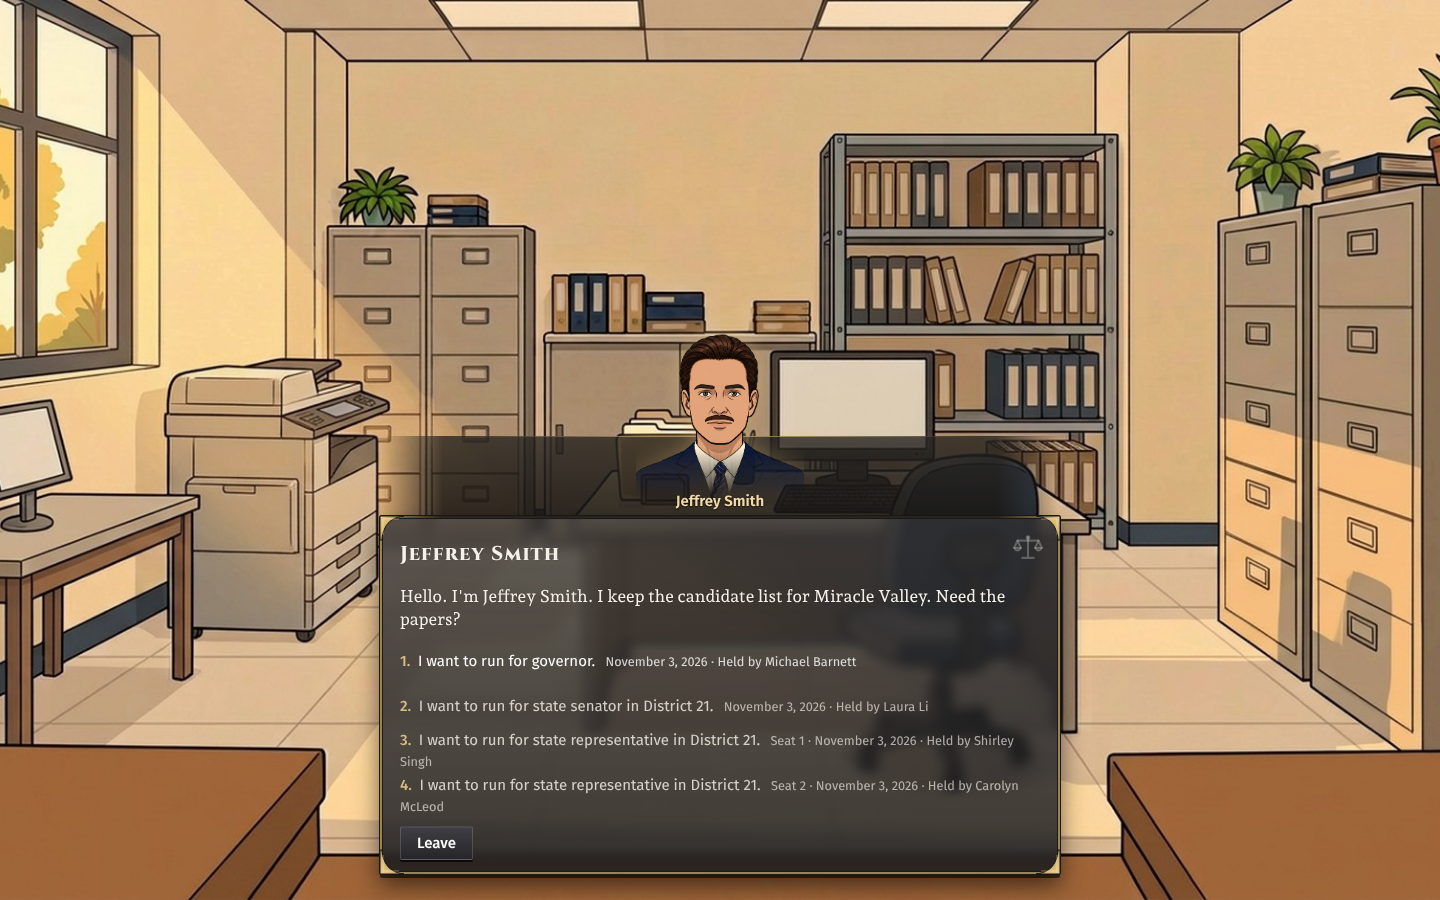
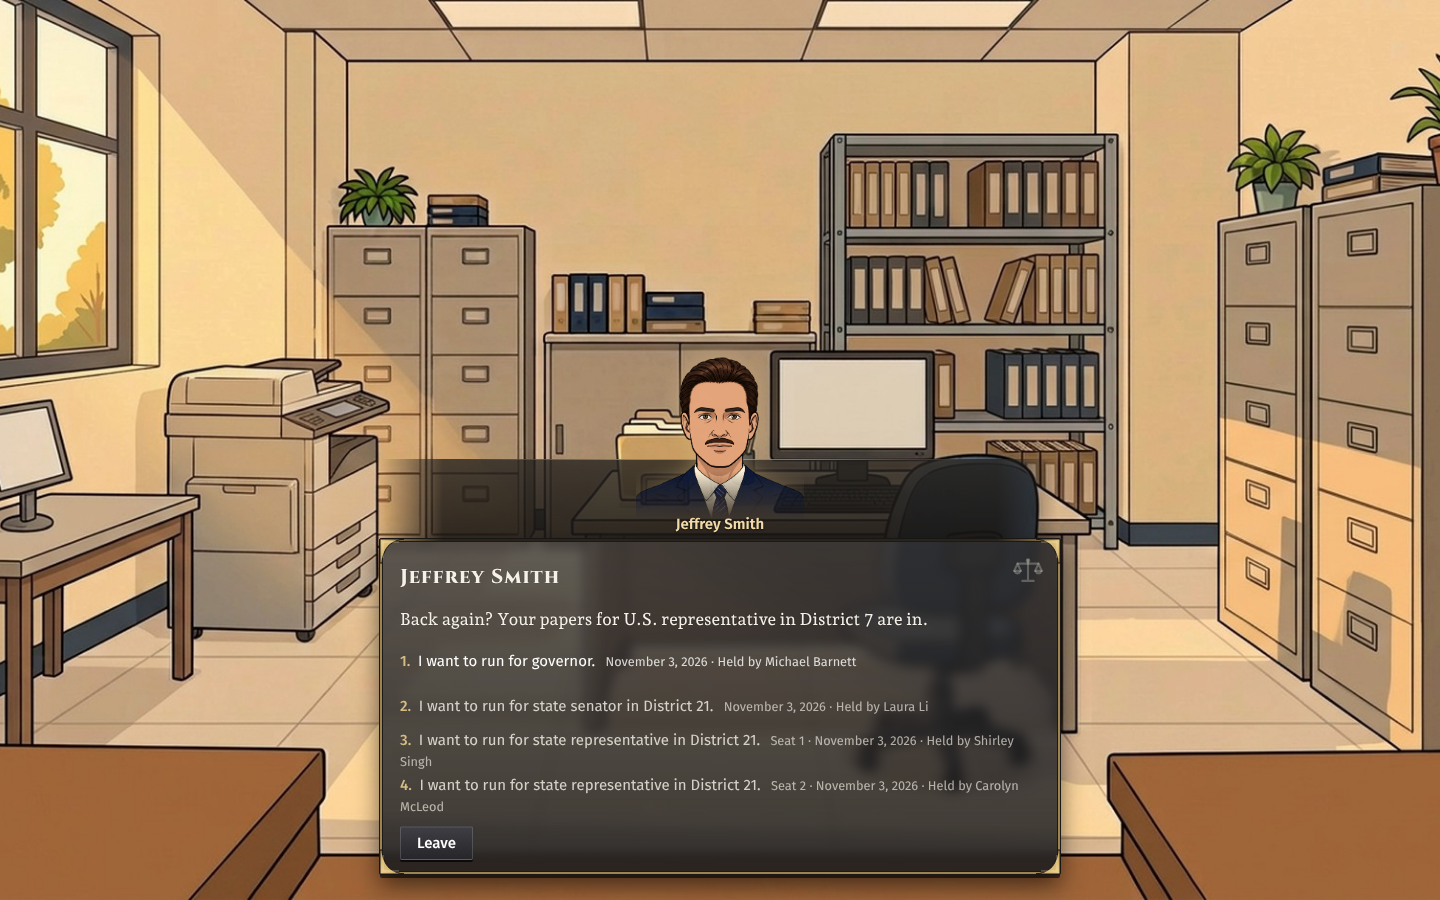
Words W3: the return visit's pictures after Fable A's read (Miracle Valley, West Wareham)
Claude-Session: https://claude.ai/code/session_011uWUjW4TnxQRbdXF6k4rch

Changed region(s): [[0.25, 0.3733, 0.7188, 0.7156], [0.6875, 0.56, 0.75, 0.6533]]

diff --git a/docs/seen/words-w3-return/lines.md b/docs/seen/words-w3-return/lines.md
@@ -108,3 +108,28 @@ Leave
 ```
 
 The after picture for w3-return-4 was taken before a later fix. It greets with "the State Election Commission and Coordinator of Elections". The research note reads "State Election Commission (original) and Coordinator of Elections (duplicate)", and the aside rule now stops before "and" or "or", so the greeting is "This is the State Election Commission" again (`spokenOffice`, tested in `filing-visit.test.ts`).
+
+## After Fable A's read (Nov 13, 08:51Z), at e351391a
+
+These replace the after pictures for w3-return-1 and w3-return-2.
+
+**w3-return-1, Miracle Valley, Arizona**
+
+```
+First thing on March 2nd. You're back at the Secretary of State's counter, and Jeffrey Smith waves you over.
+Jeffrey Smith: Back again? Your papers for U.S. representative in District 7 are in.
+I want to run for governor. November 3, 2026 · Held by Michael Barnett
+I want to run for state senator in District 21. November 3, 2026 · Held by Laura Li
+I want to run for state representative in District 21. Seat 1 · November 3, 2026 · Held by Shirley Singh
+I want to run for state representative in District 21. Seat 2 · November 3, 2026 · Held by Carolyn McLeod
+Leave
+```
+
+**w3-return-2, West Wareham, Massachusetts**
+
+```
+Travel card: Town clerk, West Wareham
+First visit's replies: Where do I sign for the board? | Did anybody in West Wareham beat me to it? | Did Dakota Pittman say anything about me? | Not today. I'll be back at the town clerk soon.
+A week on, Brenda Raymond: Nothing's come in yet. I need 20 signatures by September 30.
+Then I'd better get back out there before September 30.
+```
